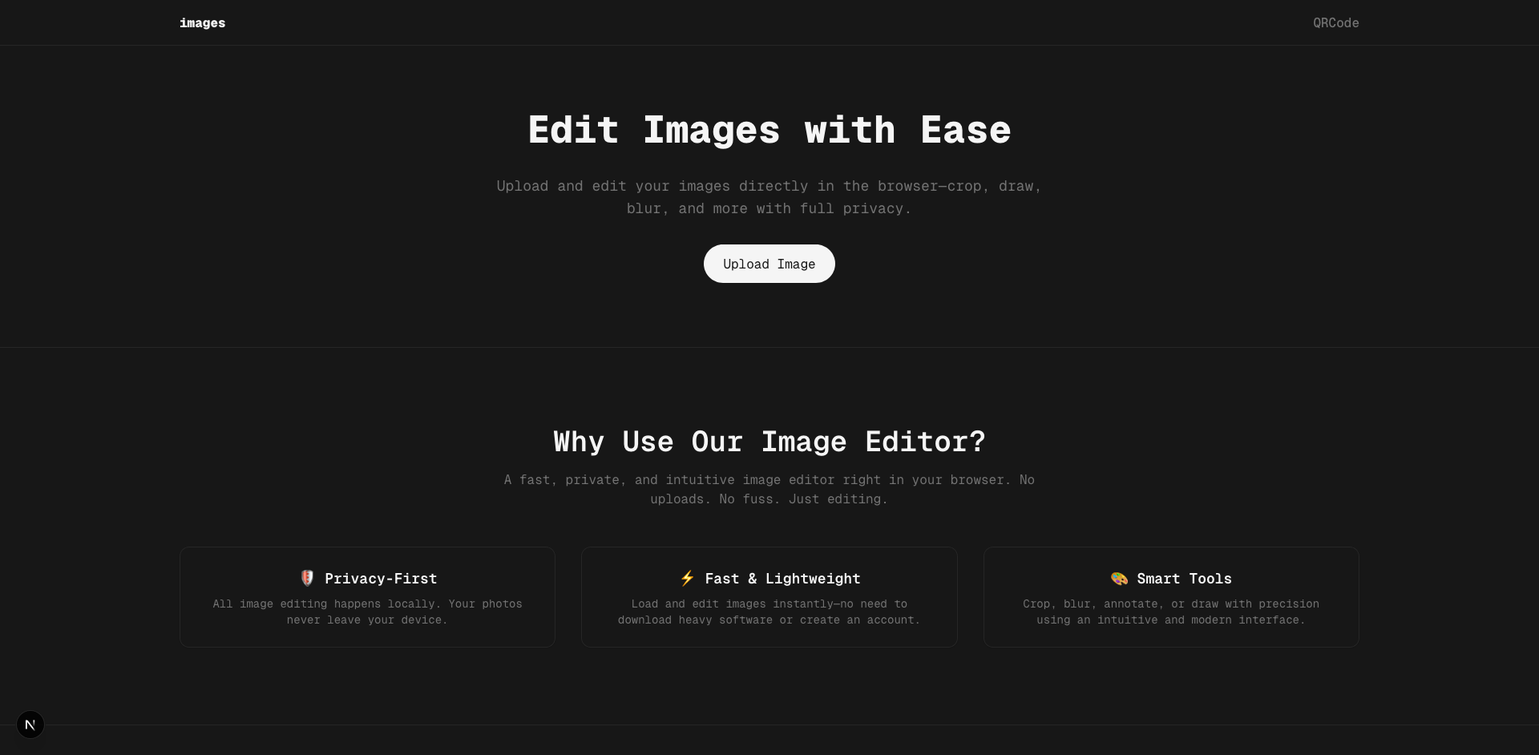
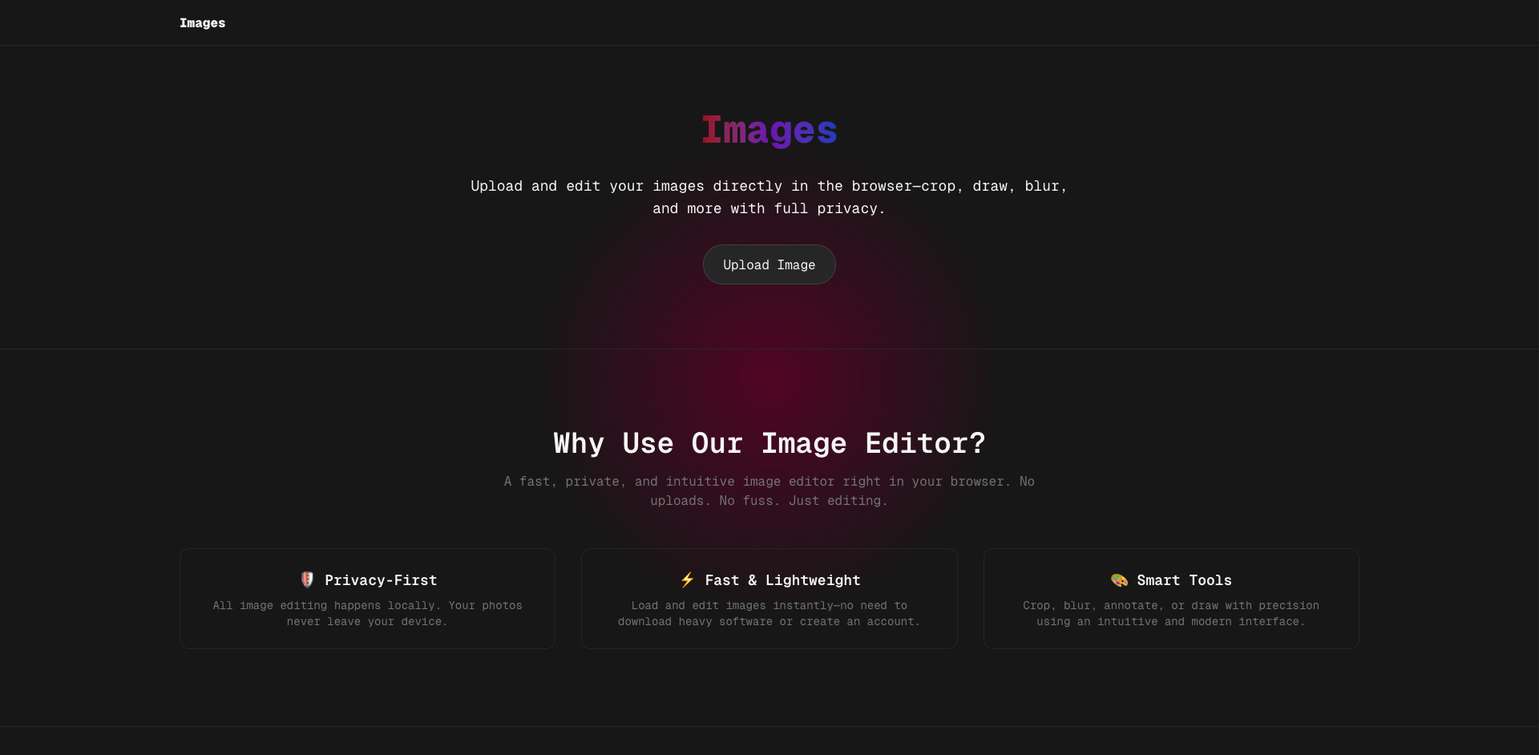
update status

diff --git a/docs/_next/static/chunks/908.c4f1882d818d0c54.js b/docs/_next/static/chunks/908.c4f1882d818d0c54.js
@@ -1,0 +1,1 @@
+"use strict";(self.webpackChunk_N_E=self.webpackChunk_N_E||[]).push([[908],{3908:(e,t,a)=>{a.r(t),a.d(t,{default:()=>C});var r=a(4513);let l=e=>{let{content:t,format:a,filename:r}=e,l=encodeURI(t),n=document.createElement("a");n.setAttribute("href",l);let s=new Date,o=s.getTimezoneOffset(),[i,c]=new Date(s.getTime()+-(o/60*36e5)).toISOString().split("T"),[d]=c.split(":").join("-").split("."),m="".concat(r,"-").concat(i,"-").concat(d,".").concat(a);n.setAttribute("download",m),document.body.append(n),n.click(),n.remove()},n=e=>{let{content:t,format:a,filename:r}=e;l({content:"data:text/".concat(a,";charset=utf-8,").concat(t),format:a,filename:r})},s=e=>{let{content:t,format:a,filename:r}=e;l({content:t,format:a,filename:r})},o=e=>{let{content:t,format:a,filename:r}=e;return{image:()=>s({content:t,format:a,filename:r}),text:()=>n({content:t,format:a,filename:r})}};var i=a(8500);let c=e=>new Promise((t,a)=>{let r=new FileReader;r.readAsDataURL(e),r.onload=()=>{let{result:e}=r;e?"string"==typeof e?t(e):t(new TextDecoder("utf-8").decode(e)):t("")},r.onerror=e=>a(Error(e.type))}),d=e=>new Promise((t,a)=>{let r=new Image;r.src=e,r.onload=async()=>{let e=document.createElement("canvas");e.width=32,e.height=32;let a=e.getContext("2d");a&&(a.drawImage(r,0,0,32,32),e.toBlob(a=>{a&&(t(URL.createObjectURL(a)),e.remove())},"image/vnd.microsoft.icon","-moz-parse-options:format=bmp;bpp=512"))},r.onerror=()=>{a(Error("error"))}}),m=e=>new Promise((t,a)=>{let r=new Image;r.src=e,r.onload=async()=>{let e=document.createElement("canvas");e.width=32,e.height=32;let a=e.getContext("2d");a&&(a.fillStyle="#ffffff",a.fillRect(0,0,e.width,e.height),a.drawImage(r,0,0,32,32),e.toBlob(a=>{a&&(t(URL.createObjectURL(a)),e.remove())},"image/jpeg",1))},r.onerror=()=>{a(Error("error"))}}),x=e=>new Promise((t,a)=>{let r=new Image;r.src=e,r.onload=async()=>{let e=document.createElement("canvas");e.width=r.width||512,e.height=r.height||512;let a=e.getContext("2d");a&&(a.drawImage(r,0,0),e.toBlob(a=>{a&&(t(URL.createObjectURL(a)),e.remove())},"image/png"))},r.onerror=()=>{a(Error("error"))}}),u=e=>{let t=/^data:(.*?);base64,/.exec(e);return console.info("match",t),t?t[1]:null},p=async(e,t)=>{await (0,i.Ay)();let a=document.createElement("canvas");a.width=t.width,a.height=t.height;let r=a.getContext("2d");if(null===r)return"";r.drawImage(t,0,0);let l=(0,i.td)(a,r);return a.remove(),"golden"===e?(0,i.MH)(l):"grayscale"===e&&(0,i.CM)(l),l.get_base64()},g=(e,t)=>new Promise((a,r)=>{let l=new Image;l.src=t,l.onload=async()=>{a(await p(e,l))},l.onerror=()=>{r(Error("Error"))}});var h=a(4285);let f=()=>(0,r.jsx)("section",{className:"py-16",children:(0,r.jsxs)("div",{className:"container mx-auto p-4 text-center md:p-8",children:[(0,r.jsx)("h3",{className:"text-3xl font-semibold sm:text-4xl",children:"Why Use Our Image Editor?"}),(0,r.jsx)("p",{className:"mx-auto mt-4 max-w-2xl text-neutral-500",children:"A fast, private, and intuitive image editor right in your browser. No uploads. No fuss. Just editing."}),(0,r.jsxs)("div",{className:"mt-12 grid grid-cols-1 gap-8 sm:grid-cols-2 lg:grid-cols-3",children:[(0,r.jsxs)("div",{className:"rounded-xl border border-neutral-800 p-6 shadow-sm",children:[(0,r.jsx)("h4",{className:"text-lg font-semibold",children:"\uD83D\uDEE1 Privacy-First"}),(0,r.jsx)("p",{className:"mt-2 text-sm text-neutral-500",children:"All image editing happens locally. Your photos never leave your device."})]}),(0,r.jsxs)("div",{className:"rounded-xl border border-neutral-800 p-6 shadow-sm",children:[(0,r.jsx)("h4",{className:"text-lg font-semibold",children:"⚡ Fast & Lightweight"}),(0,r.jsx)("p",{className:"mt-2 text-sm text-neutral-500",children:"Load and edit images instantly—no need to download heavy software or create an account."})]}),(0,r.jsxs)("div",{className:"rounded-xl border border-neutral-800 p-6 shadow-sm",children:[(0,r.jsx)("h4",{className:"text-lg font-semibold",children:"\uD83C\uDFA8 Smart Tools"}),(0,r.jsx)("p",{className:"mt-2 text-sm text-neutral-500",children:"Crop, blur, annotate, or draw with precision using an intuitive and modern interface."})]})]})]})}),b="Images";var j=a(4251),w=a.n(j);let y=()=>(0,r.jsx)("footer",{className:"w-full border-t border-neutral-800 py-8",children:(0,r.jsxs)("div",{className:"container mx-auto flex flex-col items-center justify-between gap-2 px-4 py-2 text-sm text-neutral-500 sm:flex-row md:gap-4 md:px-8 md:py-4",children:[(0,r.jsxs)("p",{children:["\xa9 ",new Date().getFullYear()," ",b,". All rights reserved."]}),(0,r.jsx)("div",{className:"space-x-4",children:(0,r.jsx)(w(),{href:"https://github.com/hieudoanm/redact",target:"_blank",rel:"noopener noreferrer",className:"hover:underline",children:"GitHub"})})]})}),v=()=>(0,r.jsx)("header",{className:"w-full",children:(0,r.jsx)("div",{className:"container mx-auto flex items-center justify-between px-4 py-2 md:px-8 md:py-4",children:(0,r.jsx)(w(),{href:"/",children:(0,r.jsx)("h1",{className:"font-black",children:b})})})}),N=()=>(0,r.jsx)("div",{className:"fixed top-0 right-0 bottom-0 left-0 z-0 m-auto flex w-screen items-center justify-center bg-neutral-900",children:(0,r.jsx)("div",{className:"aspect-square w-full max-w-xl bg-[radial-gradient(#510424_0,_transparent_72%)]"})}),E=e=>{let{children:t=(0,r.jsx)(r.Fragment,{})}=e;return(0,r.jsx)("span",{className:"bg-gradient-to-r from-red-800 via-purple-800 to-blue-800 bg-clip-text text-transparent",children:t})},C=()=>{var e,t,a;let[{originalBase64:l="",filteredBase64:n="",file:s=null},i]=(0,h.useState)({originalBase64:"",filteredBase64:"",file:null}),p=async e=>{var t;let a=null==(t=e.target.files)?void 0:t[0];if(a){let e=await c(a);i(t=>({...t,originalBase64:e,filteredBase64:"",file:a}))}};return(0,r.jsxs)(r.Fragment,{children:[(0,r.jsx)(N,{}),(0,r.jsxs)("div",{className:"relative z-10",children:[(0,r.jsx)(v,{}),(0,r.jsx)("div",{className:"w-full border-t border-neutral-800"}),(0,r.jsx)("section",{className:"w-full py-20",children:(0,r.jsxs)("div",{className:"mx-auto flex max-w-3xl flex-col gap-y-4 text-center md:gap-y-8",children:[(0,r.jsx)("h2",{className:"text-4xl font-extrabold text-neutral-100 sm:text-5xl",children:(0,r.jsx)(E,{children:b})}),(0,r.jsx)("p",{className:"text-lg text-neutral-100",children:"Upload and edit your images directly in the browser—crop, draw, blur, and more with full privacy."}),(0,r.jsxs)("div",{className:"flex justify-center gap-4",children:[(0,r.jsxs)("label",{className:"inline-block cursor-pointer rounded-full border border-neutral-700 bg-neutral-800 px-6 py-3",children:[(0,r.jsx)("span",{children:"Upload Image"}),(0,r.jsx)("input",{type:"file",accept:"image/*",onChange:p,className:"hidden"})]}),(null==(e=u(n||l))?void 0:e.includes("png"))&&(0,r.jsx)("button",{onClick:async()=>{o({content:await d(n||l),format:"ico",filename:"favicon"}).image()},className:"cursor-pointer rounded-full border border-neutral-700 bg-neutral-800 px-6 py-3 transition",children:"Export as ICO"}),(null==(t=u(n||l))?void 0:t.includes("png"))&&(0,r.jsx)("button",{onClick:async()=>{o({content:await m(n||l),format:"jpg",filename:"image"}).image()},className:"cursor-pointer rounded-full border border-neutral-700 bg-neutral-800 px-6 py-3 transition",children:"Export as JPG"}),(null==(a=u(n||l))?void 0:a.includes("svg"))&&(0,r.jsx)("button",{onClick:async()=>{o({content:await x(n||l),format:"png",filename:"image"}).image()},className:"cursor-pointer rounded-full border border-neutral-700 bg-neutral-800 px-6 py-3 transition",children:"Export as PNG"})]})]})}),(0,r.jsx)("div",{className:"w-full border-t border-neutral-800"}),!s&&(0,r.jsxs)(r.Fragment,{children:[(0,r.jsx)(f,{}),(0,r.jsx)("div",{className:"w-full border-t border-neutral-800"}),(0,r.jsx)("section",{className:"w-full py-16",children:(0,r.jsxs)("div",{className:"mx-auto max-w-3xl px-6 text-center",children:[(0,r.jsx)("h3",{className:"text-2xl font-bold sm:text-3xl",children:"Ready to edit your image?"}),(0,r.jsx)("p",{className:"mt-4 text-neutral-500",children:"Upload your image and start editing instantly — no sign-up, no server, 100% local and private."}),(0,r.jsxs)("label",{className:"mt-6 inline-block cursor-pointer rounded-full border border-neutral-700 bg-neutral-800 px-6 py-3",children:[(0,r.jsx)("span",{children:"Upload Image"}),(0,r.jsx)("input",{type:"file",accept:"image/*",onChange:p,className:"hidden"})]})]})})]}),s&&(0,r.jsxs)("div",{className:"container mx-auto flex flex-col gap-y-8 p-8",children:[(0,r.jsx)("div",{className:"flex flex-col gap-y-8",children:(0,r.jsxs)("div",{className:"grid grid-cols-2 gap-8",children:[(0,r.jsx)("button",{type:"button",onClick:async()=>{let e=await g("golden",l);i(t=>({...t,filteredBase64:e}))},className:"w-full cursor-pointer rounded-full bg-neutral-100 px-4 py-2 text-neutral-900",children:"Filter - Golden"}),(0,r.jsx)("button",{type:"button",onClick:async()=>{let e=await g("grayscale",l);i(t=>({...t,filteredBase64:e}))},className:"w-full cursor-pointer rounded-full bg-neutral-100 px-4 py-2 text-neutral-900",children:"Filter - Grayscale"})]})}),(0,r.jsx)("div",{className:"h-64 bg-contain bg-center bg-no-repeat md:h-128",style:{backgroundImage:"url(".concat(n||l,")")}})]}),(0,r.jsx)(y,{})]})]})}}}]);

diff --git a/docs/500/index.html b/docs/500/index.html
@@ -1,1 +1,1 @@
-<!DOCTYPE html><html lang="en"><head><meta charSet="utf-8" data-next-head=""/><meta name="viewport" content="width=device-width" data-next-head=""/><title data-next-head="">Images</title><link rel="preload" href="/images/_next/static/media/569ce4b8f30dc480-s.p.woff2" as="font" type="font/woff2" crossorigin="anonymous" data-next-font="size-adjust"/><link rel="preload" href="/images/_next/static/media/93f479601ee12b01-s.p.woff2" as="font" type="font/woff2" crossorigin="anonymous" data-next-font="size-adjust"/><link rel="preload" href="/images/_next/static/css/060c84b834884346.css" as="style"/><link rel="stylesheet" href="/images/_next/static/css/060c84b834884346.css" data-n-g=""/><noscript data-n-css=""></noscript><script defer="" noModule="" src="/images/_next/static/chunks/polyfills-42372ed130431b0a.js"></script><script src="/images/_next/static/chunks/webpack-c9c8d0dbb3d62360.js" defer=""></script><script src="/images/_next/static/chunks/framework-eb82ced384e9023c.js" defer=""></script><script src="/images/_next/static/chunks/main-9563936fc4d2a82c.js" defer=""></script><script src="/images/_next/static/chunks/pages/_app-215feb7015bf6593.js" defer=""></script><script src="/images/_next/static/chunks/251-a8db906141891df5.js" defer=""></script><script src="/images/_next/static/chunks/pages/500-9556e57e1b72f3ed.js" defer=""></script><script src="/images/_next/static/sqUWDT7Cqm-RVRtOr2xNt/_buildManifest.js" defer=""></script><script src="/images/_next/static/sqUWDT7Cqm-RVRtOr2xNt/_ssgManifest.js" defer=""></script></head><body class="antialiased"><div id="__next"><div class="__className_f70b79 __className_058163"><div class="bg-neutral-900 text-neutral-100"><main class="flex min-h-screen flex-col items-center justify-center bg-neutral-900 px-4 text-neutral-100"><div class="flex flex-col items-center gap-6 text-center"><h1 class="text-6xl font-bold">500</h1><p class="text-xl text-neutral-400">Something went wrong on our end. Please try again later.</p><a class="rounded-xl bg-neutral-100 px-6 py-3 font-medium text-neutral-900 transition hover:bg-neutral-200" href="/images/">Go back home</a></div></main></div></div></div><script id="__NEXT_DATA__" type="application/json">{"props":{"pageProps":{}},"page":"/500","query":{},"buildId":"sqUWDT7Cqm-RVRtOr2xNt","assetPrefix":"/images","nextExport":true,"autoExport":true,"isFallback":false,"scriptLoader":[]}</script></body></html>
+<!DOCTYPE html><html lang="en"><head><meta charSet="utf-8" data-next-head=""/><meta name="viewport" content="width=device-width" data-next-head=""/><title data-next-head="">Images</title><link rel="preload" href="/images/_next/static/media/569ce4b8f30dc480-s.p.woff2" as="font" type="font/woff2" crossorigin="anonymous" data-next-font="size-adjust"/><link rel="preload" href="/images/_next/static/media/93f479601ee12b01-s.p.woff2" as="font" type="font/woff2" crossorigin="anonymous" data-next-font="size-adjust"/><link rel="preload" href="/images/_next/static/css/060c84b834884346.css" as="style"/><link rel="stylesheet" href="/images/_next/static/css/060c84b834884346.css" data-n-g=""/><noscript data-n-css=""></noscript><script defer="" noModule="" src="/images/_next/static/chunks/polyfills-42372ed130431b0a.js"></script><script src="/images/_next/static/chunks/webpack-f6b7b16fe694517e.js" defer=""></script><script src="/images/_next/static/chunks/framework-eb82ced384e9023c.js" defer=""></script><script src="/images/_next/static/chunks/main-9563936fc4d2a82c.js" defer=""></script><script src="/images/_next/static/chunks/pages/_app-215feb7015bf6593.js" defer=""></script><script src="/images/_next/static/chunks/251-a8db906141891df5.js" defer=""></script><script src="/images/_next/static/chunks/pages/500-9556e57e1b72f3ed.js" defer=""></script><script src="/images/_next/static/9Kkywk4JMS-p8DnXfdsC5/_buildManifest.js" defer=""></script><script src="/images/_next/static/9Kkywk4JMS-p8DnXfdsC5/_ssgManifest.js" defer=""></script></head><body class="antialiased"><div id="__next"><div class="__className_f70b79 __className_058163"><div class="bg-neutral-900 text-neutral-100"><main class="flex min-h-screen flex-col items-center justify-center bg-neutral-900 px-4 text-neutral-100"><div class="flex flex-col items-center gap-6 text-center"><h1 class="text-6xl font-bold">500</h1><p class="text-xl text-neutral-400">Something went wrong on our end. Please try again later.</p><a class="rounded-xl bg-neutral-100 px-6 py-3 font-medium text-neutral-900 transition hover:bg-neutral-200" href="/images/">Go back home</a></div></main></div></div></div><script id="__NEXT_DATA__" type="application/json">{"props":{"pageProps":{}},"page":"/500","query":{},"buildId":"9Kkywk4JMS-p8DnXfdsC5","assetPrefix":"/images","nextExport":true,"autoExport":true,"isFallback":false,"scriptLoader":[]}</script></body></html>

diff --git a/docs/404.html b/docs/404.html
@@ -1,1 +1,1 @@
-<!DOCTYPE html><html lang="en"><head><meta charSet="utf-8" data-next-head=""/><meta name="viewport" content="width=device-width" data-next-head=""/><title data-next-head="">Images</title><link rel="preload" href="/images/_next/static/media/569ce4b8f30dc480-s.p.woff2" as="font" type="font/woff2" crossorigin="anonymous" data-next-font="size-adjust"/><link rel="preload" href="/images/_next/static/media/93f479601ee12b01-s.p.woff2" as="font" type="font/woff2" crossorigin="anonymous" data-next-font="size-adjust"/><link rel="preload" href="/images/_next/static/css/060c84b834884346.css" as="style"/><link rel="stylesheet" href="/images/_next/static/css/060c84b834884346.css" data-n-g=""/><noscript data-n-css=""></noscript><script defer="" noModule="" src="/images/_next/static/chunks/polyfills-42372ed130431b0a.js"></script><script src="/images/_next/static/chunks/webpack-c9c8d0dbb3d62360.js" defer=""></script><script src="/images/_next/static/chunks/framework-eb82ced384e9023c.js" defer=""></script><script src="/images/_next/static/chunks/main-9563936fc4d2a82c.js" defer=""></script><script src="/images/_next/static/chunks/pages/_app-215feb7015bf6593.js" defer=""></script><script src="/images/_next/static/chunks/251-a8db906141891df5.js" defer=""></script><script src="/images/_next/static/chunks/pages/404-21d8ea4ad67150d7.js" defer=""></script><script src="/images/_next/static/sqUWDT7Cqm-RVRtOr2xNt/_buildManifest.js" defer=""></script><script src="/images/_next/static/sqUWDT7Cqm-RVRtOr2xNt/_ssgManifest.js" defer=""></script></head><body class="antialiased"><div id="__next"><div class="__className_f70b79 __className_058163"><div class="bg-neutral-900 text-neutral-100"><main class="flex min-h-screen flex-col items-center justify-center bg-neutral-900 px-4 text-neutral-100"><div class="flex flex-col items-center gap-6 text-center"><h1 class="text-6xl font-bold">404</h1><p class="text-xl text-neutral-400">Sorry, the page you are looking for does not exist.</p><a class="rounded-xl bg-neutral-100 px-6 py-3 font-medium text-neutral-900 transition hover:bg-neutral-200" href="/images/">Go back home</a></div></main></div></div></div><script id="__NEXT_DATA__" type="application/json">{"props":{"pageProps":{}},"page":"/404","query":{},"buildId":"sqUWDT7Cqm-RVRtOr2xNt","assetPrefix":"/images","nextExport":true,"autoExport":true,"isFallback":false,"scriptLoader":[]}</script></body></html>
+<!DOCTYPE html><html lang="en"><head><meta charSet="utf-8" data-next-head=""/><meta name="viewport" content="width=device-width" data-next-head=""/><title data-next-head="">Images</title><link rel="preload" href="/images/_next/static/media/569ce4b8f30dc480-s.p.woff2" as="font" type="font/woff2" crossorigin="anonymous" data-next-font="size-adjust"/><link rel="preload" href="/images/_next/static/media/93f479601ee12b01-s.p.woff2" as="font" type="font/woff2" crossorigin="anonymous" data-next-font="size-adjust"/><link rel="preload" href="/images/_next/static/css/060c84b834884346.css" as="style"/><link rel="stylesheet" href="/images/_next/static/css/060c84b834884346.css" data-n-g=""/><noscript data-n-css=""></noscript><script defer="" noModule="" src="/images/_next/static/chunks/polyfills-42372ed130431b0a.js"></script><script src="/images/_next/static/chunks/webpack-f6b7b16fe694517e.js" defer=""></script><script src="/images/_next/static/chunks/framework-eb82ced384e9023c.js" defer=""></script><script src="/images/_next/static/chunks/main-9563936fc4d2a82c.js" defer=""></script><script src="/images/_next/static/chunks/pages/_app-215feb7015bf6593.js" defer=""></script><script src="/images/_next/static/chunks/251-a8db906141891df5.js" defer=""></script><script src="/images/_next/static/chunks/pages/404-21d8ea4ad67150d7.js" defer=""></script><script src="/images/_next/static/9Kkywk4JMS-p8DnXfdsC5/_buildManifest.js" defer=""></script><script src="/images/_next/static/9Kkywk4JMS-p8DnXfdsC5/_ssgManifest.js" defer=""></script></head><body class="antialiased"><div id="__next"><div class="__className_f70b79 __className_058163"><div class="bg-neutral-900 text-neutral-100"><main class="flex min-h-screen flex-col items-center justify-center bg-neutral-900 px-4 text-neutral-100"><div class="flex flex-col items-center gap-6 text-center"><h1 class="text-6xl font-bold">404</h1><p class="text-xl text-neutral-400">Sorry, the page you are looking for does not exist.</p><a class="rounded-xl bg-neutral-100 px-6 py-3 font-medium text-neutral-900 transition hover:bg-neutral-200" href="/images/">Go back home</a></div></main></div></div></div><script id="__NEXT_DATA__" type="application/json">{"props":{"pageProps":{}},"page":"/404","query":{},"buildId":"9Kkywk4JMS-p8DnXfdsC5","assetPrefix":"/images","nextExport":true,"autoExport":true,"isFallback":false,"scriptLoader":[]}</script></body></html>

diff --git a/docs/404/index.html b/docs/404/index.html
@@ -1,1 +1,1 @@
-<!DOCTYPE html><html lang="en"><head><meta charSet="utf-8" data-next-head=""/><meta name="viewport" content="width=device-width" data-next-head=""/><title data-next-head="">Images</title><link rel="preload" href="/images/_next/static/media/569ce4b8f30dc480-s.p.woff2" as="font" type="font/woff2" crossorigin="anonymous" data-next-font="size-adjust"/><link rel="preload" href="/images/_next/static/media/93f479601ee12b01-s.p.woff2" as="font" type="font/woff2" crossorigin="anonymous" data-next-font="size-adjust"/><link rel="preload" href="/images/_next/static/css/060c84b834884346.css" as="style"/><link rel="stylesheet" href="/images/_next/static/css/060c84b834884346.css" data-n-g=""/><noscript data-n-css=""></noscript><script defer="" noModule="" src="/images/_next/static/chunks/polyfills-42372ed130431b0a.js"></script><script src="/images/_next/static/chunks/webpack-c9c8d0dbb3d62360.js" defer=""></script><script src="/images/_next/static/chunks/framework-eb82ced384e9023c.js" defer=""></script><script src="/images/_next/static/chunks/main-9563936fc4d2a82c.js" defer=""></script><script src="/images/_next/static/chunks/pages/_app-215feb7015bf6593.js" defer=""></script><script src="/images/_next/static/chunks/251-a8db906141891df5.js" defer=""></script><script src="/images/_next/static/chunks/pages/404-21d8ea4ad67150d7.js" defer=""></script><script src="/images/_next/static/sqUWDT7Cqm-RVRtOr2xNt/_buildManifest.js" defer=""></script><script src="/images/_next/static/sqUWDT7Cqm-RVRtOr2xNt/_ssgManifest.js" defer=""></script></head><body class="antialiased"><div id="__next"><div class="__className_f70b79 __className_058163"><div class="bg-neutral-900 text-neutral-100"><main class="flex min-h-screen flex-col items-center justify-center bg-neutral-900 px-4 text-neutral-100"><div class="flex flex-col items-center gap-6 text-center"><h1 class="text-6xl font-bold">404</h1><p class="text-xl text-neutral-400">Sorry, the page you are looking for does not exist.</p><a class="rounded-xl bg-neutral-100 px-6 py-3 font-medium text-neutral-900 transition hover:bg-neutral-200" href="/images/">Go back home</a></div></main></div></div></div><script id="__NEXT_DATA__" type="application/json">{"props":{"pageProps":{}},"page":"/404","query":{},"buildId":"sqUWDT7Cqm-RVRtOr2xNt","assetPrefix":"/images","nextExport":true,"autoExport":true,"isFallback":false,"scriptLoader":[]}</script></body></html>
+<!DOCTYPE html><html lang="en"><head><meta charSet="utf-8" data-next-head=""/><meta name="viewport" content="width=device-width" data-next-head=""/><title data-next-head="">Images</title><link rel="preload" href="/images/_next/static/media/569ce4b8f30dc480-s.p.woff2" as="font" type="font/woff2" crossorigin="anonymous" data-next-font="size-adjust"/><link rel="preload" href="/images/_next/static/media/93f479601ee12b01-s.p.woff2" as="font" type="font/woff2" crossorigin="anonymous" data-next-font="size-adjust"/><link rel="preload" href="/images/_next/static/css/060c84b834884346.css" as="style"/><link rel="stylesheet" href="/images/_next/static/css/060c84b834884346.css" data-n-g=""/><noscript data-n-css=""></noscript><script defer="" noModule="" src="/images/_next/static/chunks/polyfills-42372ed130431b0a.js"></script><script src="/images/_next/static/chunks/webpack-f6b7b16fe694517e.js" defer=""></script><script src="/images/_next/static/chunks/framework-eb82ced384e9023c.js" defer=""></script><script src="/images/_next/static/chunks/main-9563936fc4d2a82c.js" defer=""></script><script src="/images/_next/static/chunks/pages/_app-215feb7015bf6593.js" defer=""></script><script src="/images/_next/static/chunks/251-a8db906141891df5.js" defer=""></script><script src="/images/_next/static/chunks/pages/404-21d8ea4ad67150d7.js" defer=""></script><script src="/images/_next/static/9Kkywk4JMS-p8DnXfdsC5/_buildManifest.js" defer=""></script><script src="/images/_next/static/9Kkywk4JMS-p8DnXfdsC5/_ssgManifest.js" defer=""></script></head><body class="antialiased"><div id="__next"><div class="__className_f70b79 __className_058163"><div class="bg-neutral-900 text-neutral-100"><main class="flex min-h-screen flex-col items-center justify-center bg-neutral-900 px-4 text-neutral-100"><div class="flex flex-col items-center gap-6 text-center"><h1 class="text-6xl font-bold">404</h1><p class="text-xl text-neutral-400">Sorry, the page you are looking for does not exist.</p><a class="rounded-xl bg-neutral-100 px-6 py-3 font-medium text-neutral-900 transition hover:bg-neutral-200" href="/images/">Go back home</a></div></main></div></div></div><script id="__NEXT_DATA__" type="application/json">{"props":{"pageProps":{}},"page":"/404","query":{},"buildId":"9Kkywk4JMS-p8DnXfdsC5","assetPrefix":"/images","nextExport":true,"autoExport":true,"isFallback":false,"scriptLoader":[]}</script></body></html>

diff --git a/docs/_next/static/chunks/pages/index-10fbe4c24670864b.js b/docs/_next/static/chunks/pages/index-10fbe4c24670864b.js
@@ -1,0 +1,1 @@
+(self.webpackChunk_N_E=self.webpackChunk_N_E||[]).push([[332],{4138:(e,t,l)=>{"use strict";Object.defineProperty(t,"__esModule",{value:!0}),Object.defineProperty(t,"default",{enumerable:!0,get:function(){return f}});let r=l(4007)._(l(4285)),a=l(9532),u=[],n=[],o=!1;function s(e){let t=e(),l={loading:!0,loaded:null,error:null};return l.promise=t.then(e=>(l.loading=!1,l.loaded=e,e)).catch(e=>{throw l.loading=!1,l.error=e,e}),l}class i{promise(){return this._res.promise}retry(){this._clearTimeouts(),this._res=this._loadFn(this._opts.loader),this._state={pastDelay:!1,timedOut:!1};let{_res:e,_opts:t}=this;e.loading&&("number"==typeof t.delay&&(0===t.delay?this._state.pastDelay=!0:this._delay=setTimeout(()=>{this._update({pastDelay:!0})},t.delay)),"number"==typeof t.timeout&&(this._timeout=setTimeout(()=>{this._update({timedOut:!0})},t.timeout))),this._res.promise.then(()=>{this._update({}),this._clearTimeouts()}).catch(e=>{this._update({}),this._clearTimeouts()}),this._update({})}_update(e){this._state={...this._state,error:this._res.error,loaded:this._res.loaded,loading:this._res.loading,...e},this._callbacks.forEach(e=>e())}_clearTimeouts(){clearTimeout(this._delay),clearTimeout(this._timeout)}getCurrentValue(){return this._state}subscribe(e){return this._callbacks.add(e),()=>{this._callbacks.delete(e)}}constructor(e,t){this._loadFn=e,this._opts=t,this._callbacks=new Set,this._delay=null,this._timeout=null,this.retry()}}function d(e){return function(e,t){let l=Object.assign({loader:null,loading:null,delay:200,timeout:null,webpack:null,modules:null},t),u=null;function s(){if(!u){let t=new i(e,l);u={getCurrentValue:t.getCurrentValue.bind(t),subscribe:t.subscribe.bind(t),retry:t.retry.bind(t),promise:t.promise.bind(t)}}return u.promise()}if(!o){let e=l.webpack&&1?l.webpack():l.modules;e&&n.push(t=>{for(let l of e)if(t.includes(l))return s()})}function d(e,t){s();let n=r.default.useContext(a.LoadableContext);n&&Array.isArray(l.modules)&&l.modules.forEach(e=>{n(e)});let o=r.default.useSyncExternalStore(u.subscribe,u.getCurrentValue,u.getCurrentValue);return r.default.useImperativeHandle(t,()=>({retry:u.retry}),[]),r.default.useMemo(()=>{var t;return o.loading||o.error?r.default.createElement(l.loading,{isLoading:o.loading,pastDelay:o.pastDelay,timedOut:o.timedOut,error:o.error,retry:u.retry}):o.loaded?r.default.createElement((t=o.loaded)&&t.default?t.default:t,e):null},[e,o])}return d.preload=()=>s(),d.displayName="LoadableComponent",r.default.forwardRef(d)}(s,e)}function c(e,t){let l=[];for(;e.length;){let r=e.pop();l.push(r(t))}return Promise.all(l).then(()=>{if(e.length)return c(e,t)})}d.preloadAll=()=>new Promise((e,t)=>{c(u).then(e,t)}),d.preloadReady=e=>(void 0===e&&(e=[]),new Promise(t=>{let l=()=>(o=!0,t());c(n,e).then(l,l)})),window.__NEXT_PRELOADREADY=d.preloadReady;let f=d},4205:(e,t,l)=>{"use strict";Object.defineProperty(t,"__esModule",{value:!0}),!function(e,t){for(var l in t)Object.defineProperty(e,l,{enumerable:!0,get:t[l]})}(t,{default:function(){return o},noSSR:function(){return n}});let r=l(4007);l(4513),l(4285);let a=r._(l(4138));function u(e){return{default:(null==e?void 0:e.default)||e}}function n(e,t){return delete t.webpack,delete t.modules,e(t)}function o(e,t){let l=a.default,r={loading:e=>{let{error:t,isLoading:l,pastDelay:r}=e;return null}};e instanceof Promise?r.loader=()=>e:"function"==typeof e?r.loader=e:"object"==typeof e&&(r={...r,...e});let o=(r={...r,...t}).loader;return(r.loadableGenerated&&(r={...r,...r.loadableGenerated},delete r.loadableGenerated),"boolean"!=typeof r.ssr||r.ssr)?l({...r,loader:()=>null!=o?o().then(u):Promise.resolve(u(()=>null))}):(delete r.webpack,delete r.modules,n(l,r))}("function"==typeof t.default||"object"==typeof t.default&&null!==t.default)&&void 0===t.default.__esModule&&(Object.defineProperty(t.default,"__esModule",{value:!0}),Object.assign(t.default,t),e.exports=t.default)},4873:(e,t,l)=>{"use strict";l.r(t),l.d(t,{default:()=>n});var r=l(4513),a=l(7072);let u=l.n(a)()(()=>Promise.all([l.e(251),l.e(500),l.e(908)]).then(l.bind(l,3908)),{loadableGenerated:{webpack:()=>[3908]},ssr:!1}),n=()=>(0,r.jsx)(u,{})},7072:(e,t,l)=>{e.exports=l(4205)},7127:(e,t,l)=>{(window.__NEXT_P=window.__NEXT_P||[]).push(["/",function(){return l(4873)}])},9532:(e,t,l)=>{"use strict";Object.defineProperty(t,"__esModule",{value:!0}),Object.defineProperty(t,"LoadableContext",{enumerable:!0,get:function(){return r}});let r=l(4007)._(l(4285)).default.createContext(null)}},e=>{var t=t=>e(e.s=t);e.O(0,[636,593,792],()=>t(7127)),_N_E=e.O()}]);

diff --git a/docs/index.html b/docs/index.html
@@ -1,1 +1,1 @@
-<!DOCTYPE html><html lang="en"><head><meta charSet="utf-8" data-next-head=""/><meta name="viewport" content="width=device-width" data-next-head=""/><title data-next-head="">Images</title><link rel="preload" href="/images/_next/static/media/569ce4b8f30dc480-s.p.woff2" as="font" type="font/woff2" crossorigin="anonymous" data-next-font="size-adjust"/><link rel="preload" href="/images/_next/static/media/93f479601ee12b01-s.p.woff2" as="font" type="font/woff2" crossorigin="anonymous" data-next-font="size-adjust"/><link rel="preload" href="/images/_next/static/css/060c84b834884346.css" as="style"/><link rel="stylesheet" href="/images/_next/static/css/060c84b834884346.css" data-n-g=""/><noscript data-n-css=""></noscript><script defer="" noModule="" src="/images/_next/static/chunks/polyfills-42372ed130431b0a.js"></script><script src="/images/_next/static/chunks/webpack-c9c8d0dbb3d62360.js" defer=""></script><script src="/images/_next/static/chunks/framework-eb82ced384e9023c.js" defer=""></script><script src="/images/_next/static/chunks/main-9563936fc4d2a82c.js" defer=""></script><script src="/images/_next/static/chunks/pages/_app-215feb7015bf6593.js" defer=""></script><script src="/images/_next/static/chunks/pages/index-59eaaf00f6a03c8a.js" defer=""></script><script src="/images/_next/static/sqUWDT7Cqm-RVRtOr2xNt/_buildManifest.js" defer=""></script><script src="/images/_next/static/sqUWDT7Cqm-RVRtOr2xNt/_ssgManifest.js" defer=""></script></head><body class="antialiased"><div id="__next"><div class="__className_f70b79 __className_058163"><div class="bg-neutral-900 text-neutral-100"></div></div></div><script id="__NEXT_DATA__" type="application/json">{"props":{"pageProps":{}},"page":"/","query":{},"buildId":"sqUWDT7Cqm-RVRtOr2xNt","assetPrefix":"/images","nextExport":true,"autoExport":true,"isFallback":false,"scriptLoader":[]}</script></body></html>
+<!DOCTYPE html><html lang="en"><head><meta charSet="utf-8" data-next-head=""/><meta name="viewport" content="width=device-width" data-next-head=""/><title data-next-head="">Images</title><link rel="preload" href="/images/_next/static/media/569ce4b8f30dc480-s.p.woff2" as="font" type="font/woff2" crossorigin="anonymous" data-next-font="size-adjust"/><link rel="preload" href="/images/_next/static/media/93f479601ee12b01-s.p.woff2" as="font" type="font/woff2" crossorigin="anonymous" data-next-font="size-adjust"/><link rel="preload" href="/images/_next/static/css/060c84b834884346.css" as="style"/><link rel="stylesheet" href="/images/_next/static/css/060c84b834884346.css" data-n-g=""/><noscript data-n-css=""></noscript><script defer="" noModule="" src="/images/_next/static/chunks/polyfills-42372ed130431b0a.js"></script><script src="/images/_next/static/chunks/webpack-f6b7b16fe694517e.js" defer=""></script><script src="/images/_next/static/chunks/framework-eb82ced384e9023c.js" defer=""></script><script src="/images/_next/static/chunks/main-9563936fc4d2a82c.js" defer=""></script><script src="/images/_next/static/chunks/pages/_app-215feb7015bf6593.js" defer=""></script><script src="/images/_next/static/chunks/pages/index-10fbe4c24670864b.js" defer=""></script><script src="/images/_next/static/9Kkywk4JMS-p8DnXfdsC5/_buildManifest.js" defer=""></script><script src="/images/_next/static/9Kkywk4JMS-p8DnXfdsC5/_ssgManifest.js" defer=""></script></head><body class="antialiased"><div id="__next"><div class="__className_f70b79 __className_058163"><div class="bg-neutral-900 text-neutral-100"></div></div></div><script id="__NEXT_DATA__" type="application/json">{"props":{"pageProps":{}},"page":"/","query":{},"buildId":"9Kkywk4JMS-p8DnXfdsC5","assetPrefix":"/images","nextExport":true,"autoExport":true,"isFallback":false,"scriptLoader":[]}</script></body></html>

diff --git a/docs/_next/static/chunks/webpack-f6b7b16fe694517e.js b/docs/_next/static/chunks/webpack-f6b7b16fe694517e.js
@@ -1,0 +1,1 @@
+(()=>{"use strict";var e={},t={};function r(o){var n=t[o];if(void 0!==n)return n.exports;var a=t[o]={exports:{}},i=!0;try{e[o](a,a.exports,r),i=!1}finally{i&&delete t[o]}return a.exports}r.m=e,(()=>{var e=[];r.O=(t,o,n,a)=>{if(o){a=a||0;for(var i=e.length;i>0&&e[i-1][2]>a;i--)e[i]=e[i-1];e[i]=[o,n,a];return}for(var u=1/0,i=0;i<e.length;i++){for(var[o,n,a]=e[i],l=!0,c=0;c<o.length;c++)(!1&a||u>=a)&&Object.keys(r.O).every(e=>r.O[e](o[c]))?o.splice(c--,1):(l=!1,a<u&&(u=a));if(l){e.splice(i--,1);var s=n();void 0!==s&&(t=s)}}return t}})(),r.n=e=>{var t=e&&e.__esModule?()=>e.default:()=>e;return r.d(t,{a:t}),t},r.d=(e,t)=>{for(var o in t)r.o(t,o)&&!r.o(e,o)&&Object.defineProperty(e,o,{enumerable:!0,get:t[o]})},r.f={},r.e=e=>Promise.all(Object.keys(r.f).reduce((t,o)=>(r.f[o](e,t),t),[])),r.u=e=>251===e?"static/chunks/251-a8db906141891df5.js":"static/chunks/"+e+"."+({500:"aeb3f8f5b79ca589",908:"c4f1882d818d0c54"})[e]+".js",r.miniCssF=e=>{},r.g=function(){if("object"==typeof globalThis)return globalThis;try{return this||Function("return this")()}catch(e){if("object"==typeof window)return window}}(),r.o=(e,t)=>Object.prototype.hasOwnProperty.call(e,t),(()=>{var e={},t="_N_E:";r.l=(o,n,a,i)=>{if(e[o])return void e[o].push(n);if(void 0!==a)for(var u,l,c=document.getElementsByTagName("script"),s=0;s<c.length;s++){var d=c[s];if(d.getAttribute("src")==o||d.getAttribute("data-webpack")==t+a){u=d;break}}u||(l=!0,(u=document.createElement("script")).charset="utf-8",u.timeout=120,r.nc&&u.setAttribute("nonce",r.nc),u.setAttribute("data-webpack",t+a),u.src=r.tu(o)),e[o]=[n];var f=(t,r)=>{u.onerror=u.onload=null,clearTimeout(p);var n=e[o];if(delete e[o],u.parentNode&&u.parentNode.removeChild(u),n&&n.forEach(e=>e(r)),t)return t(r)},p=setTimeout(f.bind(null,void 0,{type:"timeout",target:u}),12e4);u.onerror=f.bind(null,u.onerror),u.onload=f.bind(null,u.onload),l&&document.head.appendChild(u)}})(),r.r=e=>{"undefined"!=typeof Symbol&&Symbol.toStringTag&&Object.defineProperty(e,Symbol.toStringTag,{value:"Module"}),Object.defineProperty(e,"__esModule",{value:!0})},r.U=function(e){var t=new URL(e,"x:/"),r={};for(var o in t)r[o]=t[o];for(var o in r.href=e,r.pathname=e.replace(/[?#].*/,""),r.origin=r.protocol="",r.toString=r.toJSON=()=>e,r)Object.defineProperty(this,o,{enumerable:!0,configurable:!0,value:r[o]})},r.U.prototype=URL.prototype,(()=>{var e;r.tt=()=>(void 0===e&&(e={createScriptURL:e=>e},"undefined"!=typeof trustedTypes&&trustedTypes.createPolicy&&(e=trustedTypes.createPolicy("nextjs#bundler",e))),e)})(),r.tu=e=>r.tt().createScriptURL(e),r.p="/images/_next/",(()=>{var e={68:0};r.f.j=(t,o)=>{var n=r.o(e,t)?e[t]:void 0;if(0!==n)if(n)o.push(n[2]);else if(68!=t){var a=new Promise((r,o)=>n=e[t]=[r,o]);o.push(n[2]=a);var i=r.p+r.u(t),u=Error();r.l(i,o=>{if(r.o(e,t)&&(0!==(n=e[t])&&(e[t]=void 0),n)){var a=o&&("load"===o.type?"missing":o.type),i=o&&o.target&&o.target.src;u.message="Loading chunk "+t+" failed.\n("+a+": "+i+")",u.name="ChunkLoadError",u.type=a,u.request=i,n[1](u)}},"chunk-"+t,t)}else e[t]=0},r.O.j=t=>0===e[t];var t=(t,o)=>{var n,a,[i,u,l]=o,c=0;if(i.some(t=>0!==e[t])){for(n in u)r.o(u,n)&&(r.m[n]=u[n]);if(l)var s=l(r)}for(t&&t(o);c<i.length;c++)a=i[c],r.o(e,a)&&e[a]&&e[a][0](),e[a]=0;return r.O(s)},o=self.webpackChunk_N_E=self.webpackChunk_N_E||[];o.forEach(t.bind(null,0)),o.push=t.bind(null,o.push.bind(o))})()})();

diff --git a/docs/_next/static/9Kkywk4JMS-p8DnXfdsC5/_buildManifest.js b/docs/_next/static/9Kkywk4JMS-p8DnXfdsC5/_buildManifest.js
@@ -1,0 +1,1 @@
+self.__BUILD_MANIFEST=function(e,s,r,t){return{__rewrites:{afterFiles:[],beforeFiles:[],fallback:[]},__routerFilterStatic:{numItems:0,errorRate:1e-4,numBits:0,numHashes:r,bitArray:[]},__routerFilterDynamic:{numItems:e,errorRate:1e-4,numBits:e,numHashes:r,bitArray:[]},"/":["static/chunks/pages/index-10fbe4c24670864b.js"],"/404":[t,"static/chunks/pages/404-21d8ea4ad67150d7.js"],"/500":[t,"static/chunks/pages/500-9556e57e1b72f3ed.js"],"/_error":["static/chunks/pages/_error-ac8365c3e9c77090.js"],sortedPages:["/","/404","/500","/_app","/_error"]}}(0,1e-4,NaN,"static/chunks/251-a8db906141891df5.js"),self.__BUILD_MANIFEST_CB&&self.__BUILD_MANIFEST_CB();

diff --git a/packages/web/src/components/landing/Home.tsx b/packages/web/src/components/landing/Home.tsx
@@ -5,7 +5,7 @@ import { Features } from './Features';
 import { Footer } from './Footer';
 import { Navbar } from './Navbar';
 import { LinearBackground, LinearText } from '../shared/Linear';
-import { APP_NAME } from '@images/constants';
+import { APP_NAME } from '@images/constants/app';
 
 const Home: FC = () => {
 	const [{ originalBase64 = '', filteredBase64 = '', file = null }, setState] = useState<{

diff --git a/packages/web/src/components/code/Navbar.tsx b/packages/web/src/components/code/Navbar.tsx
@@ -1,4 +1,4 @@
-import { APP_NAME } from '@images/constants';
+import { APP_NAME } from '@images/constants/app';
 import Link from 'next/link';
 
 export const Navbar = () => {

diff --git a/packages/web/src/components/landing/Navbar.tsx b/packages/web/src/components/landing/Navbar.tsx
@@ -1,4 +1,4 @@
-import { APP_NAME } from '@images/constants';
+import { APP_NAME } from '@images/constants/app';
 import Link from 'next/link';
 
 export const Navbar = () => {

diff --git a/packages/web/src/components/code/Footer.tsx b/packages/web/src/components/code/Footer.tsx
@@ -1,4 +1,4 @@
-import { APP_NAME } from '@images/constants';
+import { APP_NAME } from '@images/constants/app';
 import Link from 'next/link';
 import { FC } from 'react';
 
